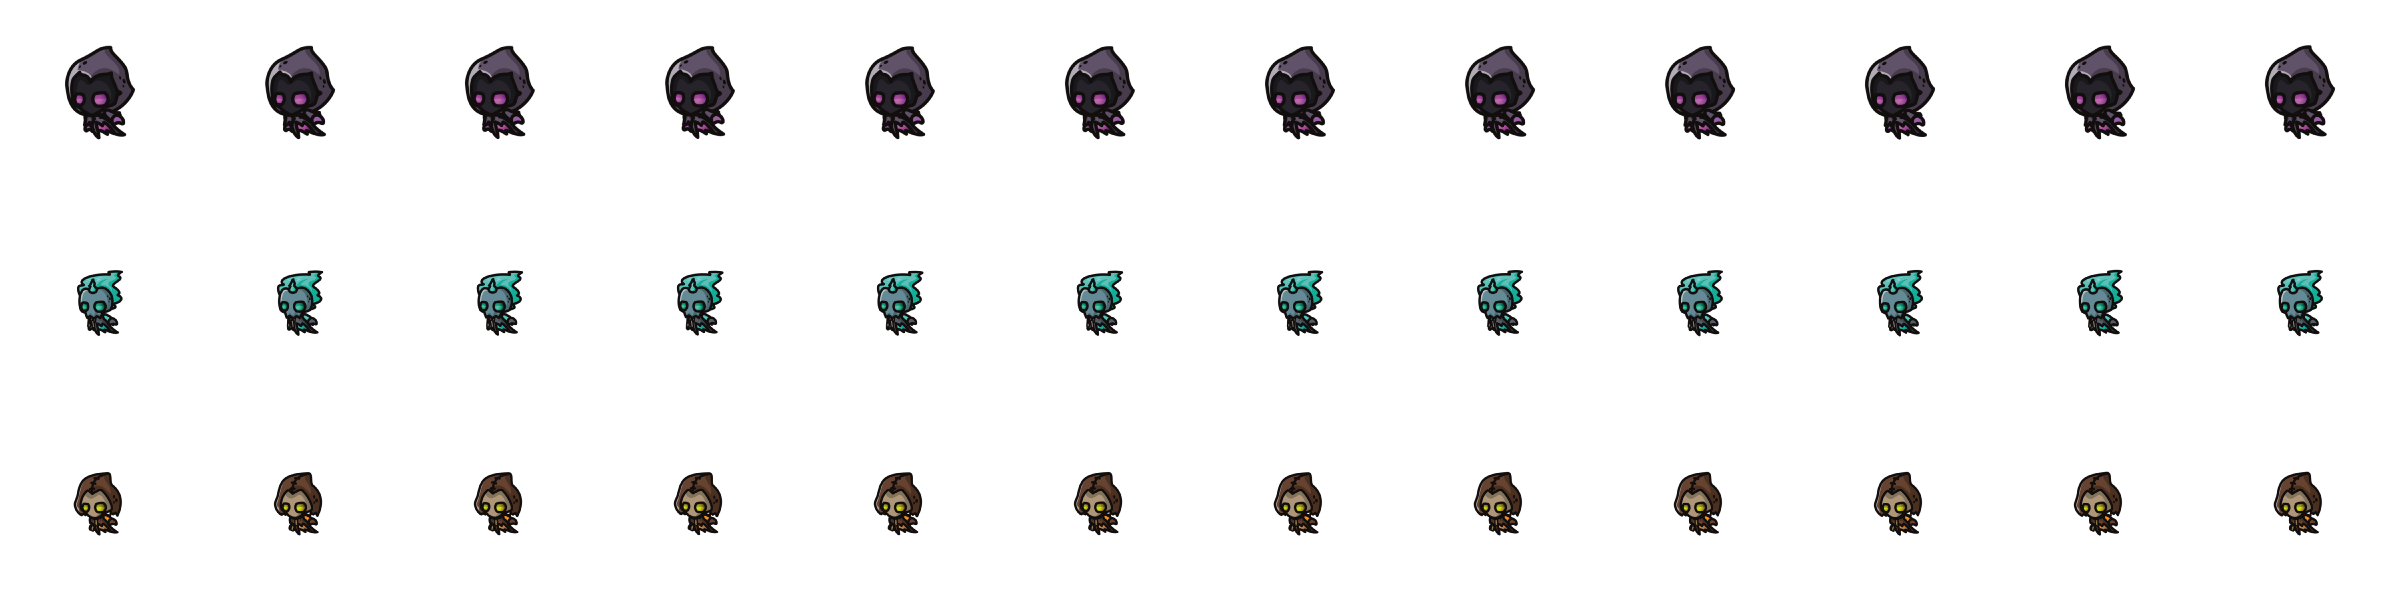
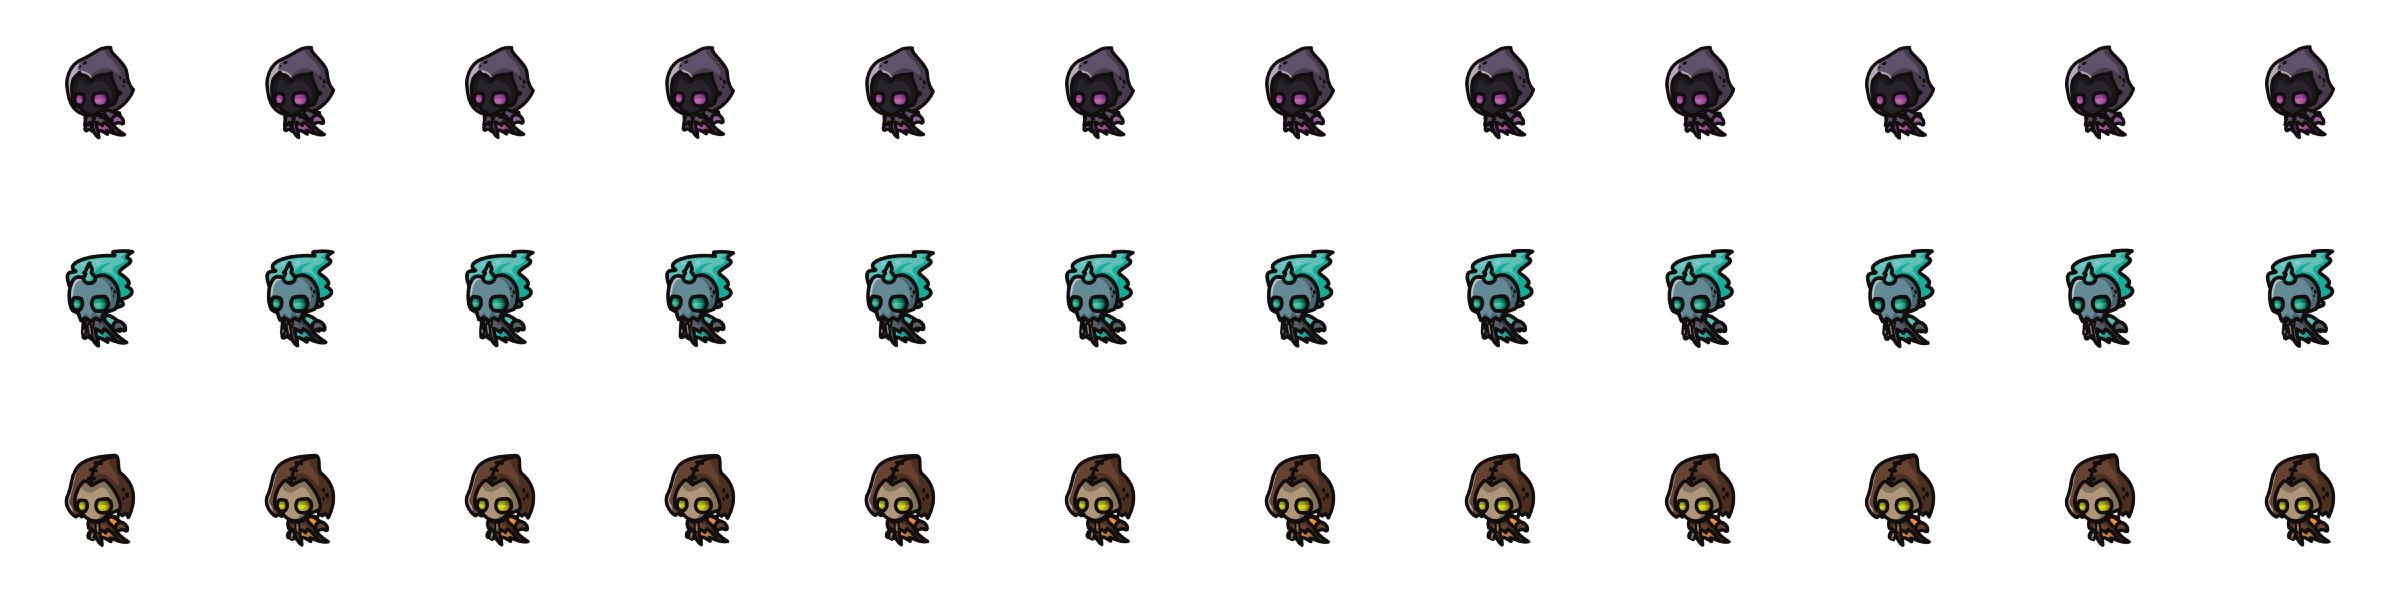
Sprite (#22)
* fix

* поправил баги в игре

* pull

* sw

* hero

* alias

* ..

* fix

* fix

* fix style

* fix style

* fix style, add emoji

* fix

* fix style

* fix command npm start

* add sprite

* sprite hero pus

* sprite death

* fix

* fix2

diff --git a/src/components/game/media/js/parameters.ts b/src/components/game/media/js/parameters.ts
@@ -32,17 +32,15 @@ import {
     l4_l7_ground02,
     l4_l8_ground,
     // главный герой
-    Heroes_Run,
-    Heroes_Stand,
-    Heroes_Jump,
-    Heroes_Death,
-    Heroes_Sliding,
+
+    HeroRun,
+    HeroJump,
+    HeroStand,
+    HeroDeath,
+
     // враги
-    Pussy_1_walk,
-    Pussy,
-    PussyAttack,
-    PussyStop,
-    Pussy_leve3,
+    Pussy_all,
+    Pussy_attack_all,
     // аудио файлы
     Jump,
     Death,
@@ -288,10 +286,12 @@ export const BG = { level1, level2, level3, level4 };
 
 export const HERO: Hero = {
     img: {
-        run: loadSpriteImage(Heroes_Run, 200, 200, 12, 1, GAME),
-        jump: loadSpriteImage(Heroes_Jump, 200, 200, 12, 1, GAME),
-        hurt: loadSpriteImage(Heroes_Death, 200, 200, 1, 1, GAME),
-        stand: loadSpriteImage(Heroes_Stand, 200, 200, 18, 1, GAME),
+
+        run: loadSpriteImage(HeroRun, 200, 200, 12, 1, GAME),
+        jump: loadSpriteImage(HeroJump, 200, 200, 12, 1, GAME),
+        hurt: loadSpriteImage(HeroDeath, 200, 200, 1, 1, GAME),
+        stand: loadSpriteImage(HeroStand, 200, 200, 18, 1, GAME),
+
     },
     position: {
         x: 65,
@@ -307,11 +307,9 @@ export const HERO: Hero = {
 const pussyDistance = [[640, 1300], [1400, 2060], [2160, 2920]];
 
 export const PUSSY: TypePussy = {
-
-    run: loadSpriteImage(Pussy_leve3, 200, 200, 12, 1, GAME),
-
-    attack: loadSpriteImage(PussyAttack, 182, 150, 1, 1, GAME),
-    stop: loadSpriteImage(PussyStop, 129, 150, 1, 1, GAME),
+    run: loadSpriteImage(Pussy_all, 200, 200, 12, 4, GAME),
+    attack: loadSpriteImage(Pussy_attack_all, 200, 200, 1, 1, GAME),
+    stop: loadSpriteImage(Pussy_attack_all, 200, 200, 1, 1, GAME),
     enemy: [
         {
             x: 1280 + GAME.random(pussyDistance[0]),
@@ -336,7 +334,7 @@ export const PUSSY: TypePussy = {
         },
     ],
 };
-
+// аудио файлы
 const selectAudioLevel = () => {
     switch (GAME.level) {
         case 'level1':
@@ -351,7 +349,6 @@ const selectAudioLevel = () => {
             return theme1;
     }
 };
-// аудио файлы
 export const AUDIO = {
     Jump: loadAudio([Jump], 0.4),
     Dead: loadAudio([Death], 0.1),

diff --git a/src/components/game/media/js/assetsLinks.ts b/src/components/game/media/js/assetsLinks.ts
@@ -33,23 +33,30 @@ export { default as l4_l6_ground01 } from '../img/level4/l6_ground01.png';
 export { default as l4_l7_ground02 } from '../img/level4/l7_ground02.png';
 export { default as l4_l8_ground } from '../img/level4/l8_ground.png';
 /* Hero */
-export { default as Angels } from '../img/Angels.png';
 export { default as Heroes_Run } from '../img/heroes_run.png';
 export { default as Heroes_Stand } from '../img/heroes_stand.png';
 export { default as Heroes_Jump } from '../img/heroes_jump.png';
 export { default as Heroes_Death } from '../img/heroes_death.png';
 export { default as Heroes_Sliding } from '../img/heroes_sliding.png';
-export { default as AngelsTwo } from '../img/AngelsTwo.png';
-export { default as Angels_Jump } from '../img/Angels_Jump.png';
-export { default as Angels_Hurt } from '../img/Angels_Hurt.png';
-export { default as Angels_Stand } from '../img/Angels_Stand.png';
-export { default as Angels2 } from '../img/Angels2.png';
+
+export { default as HeroRun } from '../img/heroes-run2.png';
+export { default as HeroJump } from '../img/heroes-jump2.png';
+export { default as HeroStand } from '../img/heroes-stand2.png';
+export { default as HeroDeath } from '../img/heroes-death2.png';
+
 /* Pussy */
 export { default as Pussy } from '../img/Pussy.png';
 export { default as PussyAttack } from '../img/PussyAttack.png';
 export { default as PussyStop } from '../img/PussyStop.png';
 export { default as Pussy_1_walk } from '../img/pussy_1_walk.png';
 export { default as Pussy_leve3 } from '../img/pussy/pussy_level3.png';
+
+export { default as Pussy_level1 } from '../img/pussy/pussy_level1.png';
+export { default as Pussy_level2 } from '../img/pussy/pussy_level2.png';
+export { default as Pussy_level3 } from '../img/pussy/pussy_level3.png';
+export { default as Pussy_level4 } from '../img/pussy/pussy_level4.png';
+export { default as Pussy_all } from '../img/pussy-run-all2.png';
+export { default as Pussy_attack_all } from '../img/pussy/pussy-attack-all.png';
 
 export { default as GameOver } from '../img/GameOver.png';
 export { default as Smile } from '../img/smile.png';

diff --git a/src/components/game/media/js/drawRunner.ts b/src/components/game/media/js/drawRunner.ts
@@ -36,7 +36,7 @@ export default function drawRunner(): void {
     if (!GAME.isGameStopped) {
         for (let i = 0; i < PUSSY.enemy.length; i += 1) {
             // отрисовка врага
-            drawImage(PUSSY.run, PUSSY.enemy[i].x, PUSSY.enemy[i].y, { object: 'pussy', number: i });
+            drawImage(PUSSY.run, PUSSY.enemy[i].x, PUSSY.enemy[i].y, 'pussy');
 
             // новые координаты для следующей отрисовки
             PUSSY.enemy[i].x -= GAME.speed * PUSSY.enemy[i].distance;
@@ -61,22 +61,22 @@ export default function drawRunner(): void {
     } else {
         for (let i = 0; i < PUSSY.enemy.length; i += 1) {
             if (PUSSY.enemy[i].attack) {
-                drawImage(PUSSY.attack, PUSSY.enemy[i].x, PUSSY.enemy[i].y, { object: 'pussy', number: i });
+                drawImage(PUSSY.attack, PUSSY.enemy[i].x, PUSSY.enemy[i].y, 'pussy');
             } else {
-                drawImage(PUSSY.stop, PUSSY.enemy[i].x, PUSSY.enemy[i].y, { object: 'pussy', number: i });
+                drawImage(PUSSY.stop, PUSSY.enemy[i].x, PUSSY.enemy[i].y, 'pussy');
             }
         }
     }
 
     // Варианты отрисовки главного героя
     if (HERO.event.run) {
-        drawImage(HERO.img.run, HERO.position.x, HERO.position.y, { object: 'hero', number: 0 });
+        drawImage(HERO.img.run, HERO.position.x, HERO.position.y, 'hero');
     }
     if (HERO.event.jump) {
-        drawImage(HERO.img.jump, HERO.position.x, HERO.position.y, { object: 'hero', number: 0 });
+        drawImage(HERO.img.jump, HERO.position.x, HERO.position.y, 'hero');
     }
     if (GAME.isGameStopped) {
-        drawImage(HERO.img.hurt, HERO.position.x, HERO.position.y, { object: 'hero', number: 0 });
+        drawImage(HERO.img.hurt, HERO.position.x, HERO.position.y, 'hero');
     }
 
     // Увеличение скорости при увеличении счёта

diff --git a/src/components/game/media/js/drawImage.ts b/src/components/game/media/js/drawImage.ts
@@ -13,26 +13,8 @@ export default function drawImage(
     img: SpriteImage,
     x: number,
     y: number,
-    animationObject: { object: string, number: number },
+    objectAnimation: string,
 ): void {
-    let offset = 0;
-    if (animationObject.object === 'hero') {
-        if (GAME.heroName === 'angel1') {
-            offset = 0;
-        }
-        if (GAME.heroName === 'angel2') {
-            offset = 200;
-        }
-        if (GAME.heroName === 'angel3') {
-            offset = 400;
-        }
-    }
-
-    //if (animationObject.object === 'pussy') {
-    //    const layer = PUSSY.enemy[animationObject.number].skin;
-    //    offset = offsetStep[layer];
-    //}
-
     // частота обновления кадров для данной картинки
     let offset = 0;
     if (GAME.heroName === 'angel1') {
@@ -43,6 +25,23 @@ export default function drawImage(
     }
     if (GAME.heroName === 'angel3') {
         offset = 400;
+    }
+    if (GAME.heroName === 'angel4') {
+        offset = 600;
+    }
+    if (objectAnimation === 'pussy') {
+        if (GAME.level === 'level1') {
+            offset = 0;
+        }
+        if (GAME.level === 'level2') {
+            offset = 200;
+        }
+        if (GAME.level === 'level3') {
+            offset = 400;
+        }
+        if (GAME.level === 'level4') {
+            offset = 600;
+        }
     }
     img.tickCount += 0.15;
     if (img.tickCount > img.ticksFrame) {

diff --git a/src/pages/start/options.tsx b/src/pages/start/options.tsx
@@ -3,6 +3,7 @@ import { GAME } from '../../components/game/media/js/parameters';
 import Angel1 from '../../assets/img/Angels1.png';
 import Angel2 from '../../assets/img/Angels2.png';
 import Angel3 from '../../assets/img/Angels3.png';
+import Angel4 from '../../assets/img/Angels4.png';
 import Level1 from '../../assets/img/level1.jpg';
 import Level2 from '../../assets/img/level2.jpg';
 import Level3 from '../../assets/img/level3.jpg';
@@ -32,6 +33,7 @@ function StartOptions({ handleStartGame }: Props): ReactElement {
                 <img src={Angel1} data-name="angel1" alt="angel1" className={`hero ${hero === 'angel1' && 'active__option'} `} />
                 <img src={Angel2} data-name="angel2" alt="angel2" className={`hero ${hero === 'angel2' && 'active__option'} `} />
                 <img src={Angel3} data-name="angel3" alt="angel3" className={`hero ${hero === 'angel3' && 'active__option'} `} />
+                <img src={Angel4} data-name="angel4" alt="angel4" className={`hero ${hero === 'angel4' && 'active__option'} `} />
             </div>
             <div>Выберите уровень:</div>
             <div onClick={selectLevel} className="list__levels">

diff --git a/src/actions/app/index.ts b/src/actions/app/index.ts
@@ -6,6 +6,7 @@ export const SET_APP_AUTHORIZED = 'app/AUTHORIZED';
 export const SET_APP_UNAUTHORIZED = 'app/UNAUTHORIZED';
 export const SET_APP_UNEXPECTED_ERROR = 'app/UNAUTHORIZED';
 export const SET_GAME_START = 'app/GAMESTART';
+
 export const SET_LEADERBOARD = 'app/LEADERBOARD';
 export const GET_LEADERBOARD_LIST = 'app/GET_LEADERBOARD_LIST';
 export const LEADERBOARD_LIST = 'app/LEADERBOARD_LIST';
@@ -29,15 +30,6 @@ export const leaderboardList = (
 export const getLeaderboardList = (): Action => {
 	return {
 		type: GET_LEADERBOARD_LIST,
-	};
-};
-
-export const SET_HERO_NAME = 'app/HERONAME';
-
-export const setHeroName = (payload: string): ActionPayload<string> => {
-	return {
-		type: SET_HERO_NAME,
-		payload,
 	};
 };
 

diff --git a/src/reducers/widgets/app/index.ts b/src/reducers/widgets/app/index.ts
@@ -29,9 +29,8 @@ export const app = (
 	switch (action.type) {
 		case LEADERBOARD_LIST: {
 			store.leaderboard = (action as ActionPayload<LeaderboardArr>).payload;
-      
-      return store;
-    }
+			return store;
+		}
 		case SET_GAME_START: {
 			store.gamaRunner = (action as ActionPayload<boolean>).payload;
 
@@ -51,7 +50,6 @@ export const app = (
 
 		case SET_APP_UNAUTHORIZED: {
 			store.unauthorized = (action as ActionPayload<boolean>).payload;
-
 			return store;
 		}
 

diff --git a/src/pages/Forum/CommentAdd.tsx b/src/pages/Forum/CommentAdd.tsx
@@ -15,7 +15,6 @@ type FormValueType = {
 type HandleAddMessagesType = {
     handleAddMessages: (arg: FormValueType) => void,
     mainComment?: boolean,
-
 };
 
 function CommentAdd(props: HandleAddMessagesType) {
@@ -59,7 +58,6 @@ function CommentAdd(props: HandleAddMessagesType) {
     };
 
     const styleEmoji = classNames(mainComment ? 'emoji_picker' : 'emoji_picker_2', { 'picker-show': emojiPicker });
-
     return (
         <>
             <div className="message_form">

diff --git a/server/ssr.tsx b/server/ssr.tsx
@@ -35,11 +35,12 @@ export default function render(req, res, store) {
 </head>
 <body>
     <div id="root">${html}</div>
+    <script>
+        window.__INITIAL_STATE__ = ${JSON.stringify(reduxState)}
+    </script>
     <script src='client.js'></script>
     <script src='emoji-picker-react.js'></script>
-    <script>
-            window.__INITIAL_STATE__ = ${JSON.stringify(reduxState)}
-    </script>
+   
 </body>
 </html>
 `;

diff --git a/src/components/game/media/js/drawStatic.ts b/src/components/game/media/js/drawStatic.ts
@@ -17,7 +17,7 @@ export default function drawStatic(): void {
     }
 
     // Варианты отрисовки главного героя
-    drawImage(HERO.img.stand, HERO.position.x, HERO.position.y, { object: 'hero', number: 0 });
+    drawImage(HERO.img.stand, HERO.position.x, HERO.position.y, 'hero');
 
     GAME.requestId = requestAnimationFrame(drawStatic);
 }

diff --git a/src/components/game/gameStatic.tsx b/src/components/game/gameStatic.tsx
@@ -23,7 +23,6 @@ export default function GameStatic(): ReactElement {
             }, 1000 / 60);
         }
     }, []);
-    console.log('kjlkjlkj')
     return (
         <canvas id="canvas_static" ref={canvasRef}>Эх... Ваш браузер не поддерживает Canvas, Вы не сможете сыграть в игру...</canvas>
     );

diff --git a/src/pages/leaderboard/leaderboard.css b/src/pages/leaderboard/leaderboard.css
@@ -16,7 +16,7 @@
 
 .table-loaderboard::-webkit-scrollbar-thumb {
     background-color: #ffffffa8;
-
+}
 
 .table-leaderboard-item {
     display: grid;
@@ -73,6 +73,7 @@
     padding: 10px;
     background: #fff;
 }
+
 .empty__list {
     margin: 30px auto;
 }
